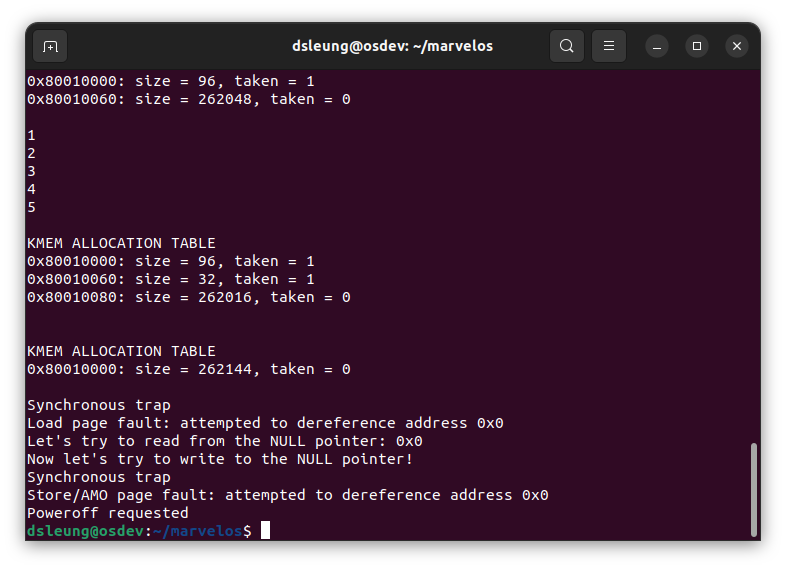
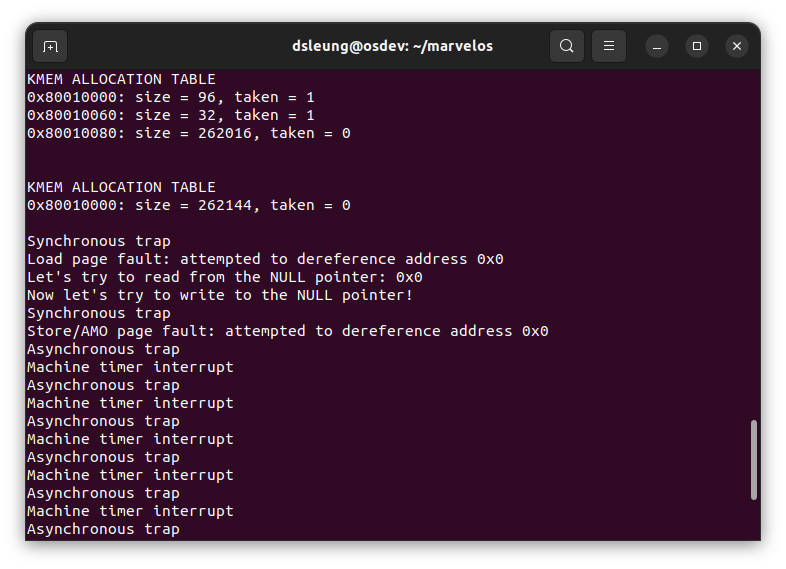
Enable trap vector to handle timer interrupts

diff --git a/src/plic/trap_handler.c b/src/plic/trap_handler.c
@@ -1,5 +1,7 @@
 #include "trap_handler.h"
 #include "../uart/uart.h"
+#include "../common/common.h"
+#include "cpu.h"
 
 size_t m_mode_trap_handler(size_t epc, size_t tval, size_t cause, size_t hart,
 			   size_t status, struct trap_frame *frame) {
@@ -7,7 +9,14 @@ size_t m_mode_trap_handler(size_t epc, size_t tval, size_t cause, size_t hart,
   size_t exception_code = CAUSE_EXCEPTION_CODE(cause);
   if (CAUSE_IS_INTERRUPT(cause)) {
     kprintf("Asynchronous trap\n");
-    kprintf("Exception code: %d\n", exception_code);
+    switch (exception_code) {
+    case 7:
+      kprintf("Machine timer interrupt\n");
+      set_timer_interrupt_delay_us(1 * US_PER_SECOND);
+      break;
+    default:
+      kprintf("Exception code: %d\n", exception_code);
+    }
   } else {
     kprintf("Synchronous trap\n");
     return_pc += 4;

diff --git a/src/kmain.c b/src/kmain.c
@@ -182,7 +182,5 @@ void kmain(void) {
   *(size_t *)NULL = 0xDEADBEEF;
 
   // Trigger timer interrupt after 1 second
-  // set_timer_interrupt_delay_us(1 * US_PER_SECOND);
-
-  poweroff();
+  set_timer_interrupt_delay_us(1 * US_PER_SECOND);
 }
